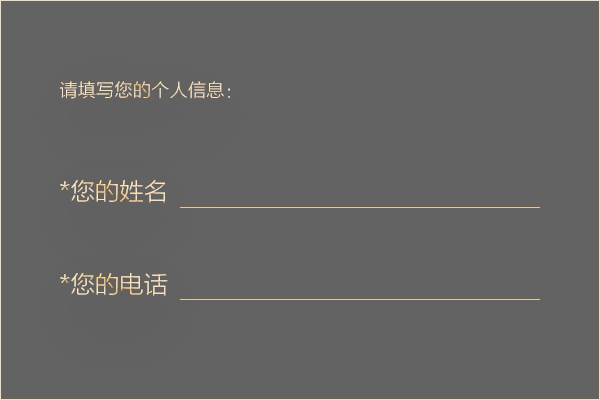
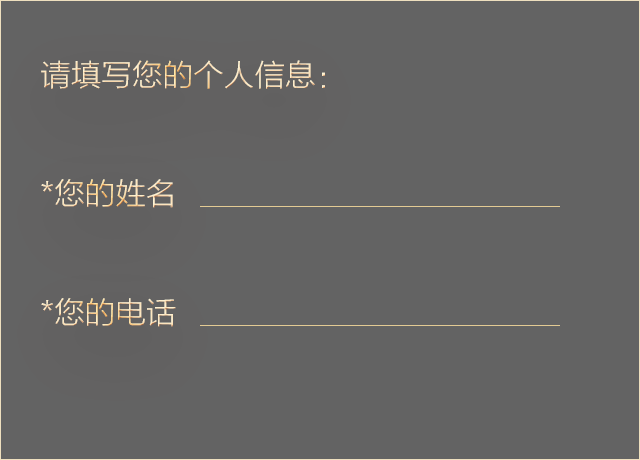
签到页面表单自适应

Changed region(s): [[0.06, 0.12, 0.51, 0.27], [0.06, 0.63, 0.87, 0.75], [0.06, 0.39, 0.3, 0.51]]

diff --git a/src/checkin/view/checksub.less b/src/checkin/view/checksub.less
@@ -1,6 +1,6 @@
 .checkinPage{
   .lookback{
-    height:7.7%;
+    height:11.084%;
     margin:0 auto;
     color:#efca9f;
     .first{
@@ -9,7 +9,7 @@
       overflow: hidden;
       &>img{
         display: block;
-        height:67.2%;
+        height:53.33%;
       }
     }
     .second{
@@ -18,7 +18,7 @@
       overflow: hidden;
       &>img{
         display: block;
-        height: 67.2%;
+        height:53.33%;
       }
     }
     .three{
@@ -27,12 +27,12 @@
       overflow: hidden;
       &>img{
         display: block;
-        height: 67.2%;
+        height:53.33%;
       }
     }
   }
   .form{
-    height:24.63%;
+    height:28.33%;
     margin:0 auto;
     .formcontainer{
       height:100%;
@@ -45,11 +45,11 @@
       .formname{
         position:absolute;
         font-size:5px;
-        left:34%;
-        top:45%;
-        width:53.3%;
-        height:5.75%;
-        line-height: 5.75%;
+        left:31.25%;
+        top:38.91%;
+        width:56.25%;
+        height:7.304%;
+        line-height: 7.304%;
         vertical-align: middle;
         color:#ffffff;
         border:none;
@@ -59,14 +59,13 @@
       }
       .formphone{
         position:absolute;
-        left:34%;
+        left:31.25%;
         // top:68.5%;
-        bottom:26.5%;
-        width:53.3%;
-        height:5.75%;
-        // line-height: 5.75%;
+        bottom:28.91%;
+        width:56.25%;
+        height:7.304%;
+        line-height:7.304%;
         vertical-align: middle;
-        padding-top:5px;
         color:#ffffff;
         padding:0;
         border:none;

diff --git a/src/checkin/view/checksub.js b/src/checkin/view/checksub.js
@@ -29,8 +29,8 @@ export default class CheckSub extends React.PureComponent {
     document.addEventListener('keypress',this.handelEnter);
     //动态获取高度
     const originalHeight=document.documentElement.clientHeight ||document.body.clientHeight;
-    const formWidth = originalHeight * 0.2463 * 1.5;
-    const fontSize = originalHeight * 0.2463 * 0.05;
+    const formWidth = originalHeight * 0.2833 * 1.391;
+    const fontSize = originalHeight * 0.2833 * 0.0326;
     this.setState({
       formW:formWidth,
       fontSize:fontSize,
@@ -146,7 +146,7 @@ export default class CheckSub extends React.PureComponent {
     const original = originalHeight?{height:`${originalHeight}px`}:null;
     return (
       <div className='checkinPage' style={{...original}}>
-        <div style={{height:'14.77%'}}></div>
+        <div style={{height:'7.39%'}}></div>
         <div className='lookback' style={{width:formW}}>
            <div className='first' style={firstanimate}>
               <img  src={firstword}/> 
@@ -166,7 +166,7 @@ export default class CheckSub extends React.PureComponent {
               <input style={{fontSize:fontSize}} className='formphone' type='text' onChange={this.handlePassword}/>
             </div>
         </div>
-        <div style={{height:'13.54%'}}></div>
+        <div style={{height:'11.08%'}}></div>
         <div className='submit'>
           <img className='submitbtn' src={submit} onTouchStart={this.handleSubmit}></img>
           <div className='smline'>

diff --git a/src/luckdraw/view/drawview.js b/src/luckdraw/view/drawview.js
@@ -76,7 +76,7 @@ export default class DrawView extends React.Component{
         //设置中奖name
         this.setLucklist(null,0);
         //设置rote区
-        this.setAnimaterote(true,true,true);
+        this.setAnimaterote(true,false,true);
         this.state.arraySum = 0;
         this.state.totalName = arg['users'];
         this.showLuck(400); 
@@ -96,7 +96,7 @@ export default class DrawView extends React.Component{
       })
       .listen('DrawContinue', (arg) => {
         clearTimeout(this.state.animateRoteId);
-        this.setAnimaterote(true,true,true);
+        this.setAnimaterote(true,false,true);
         this.state.arraySum = 0;
         this.state.totalName = arg['users'];
         this.showLuck(400); 
